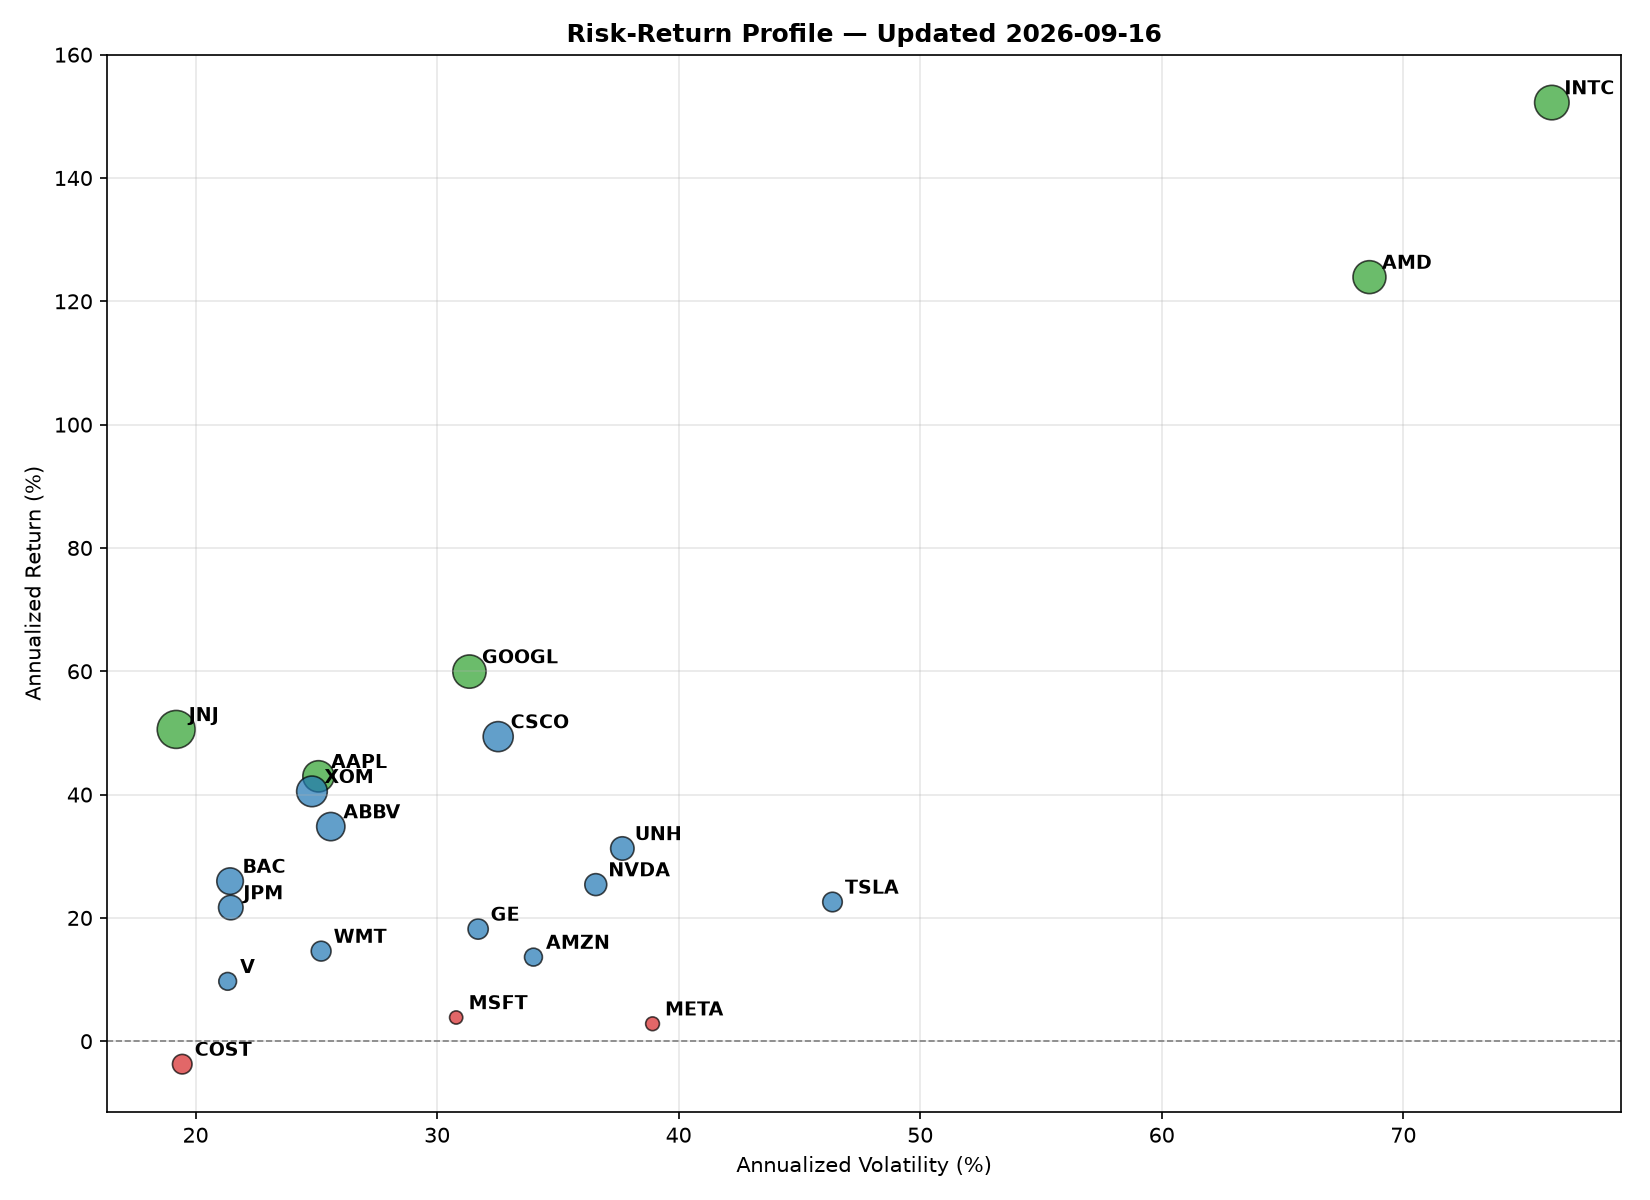
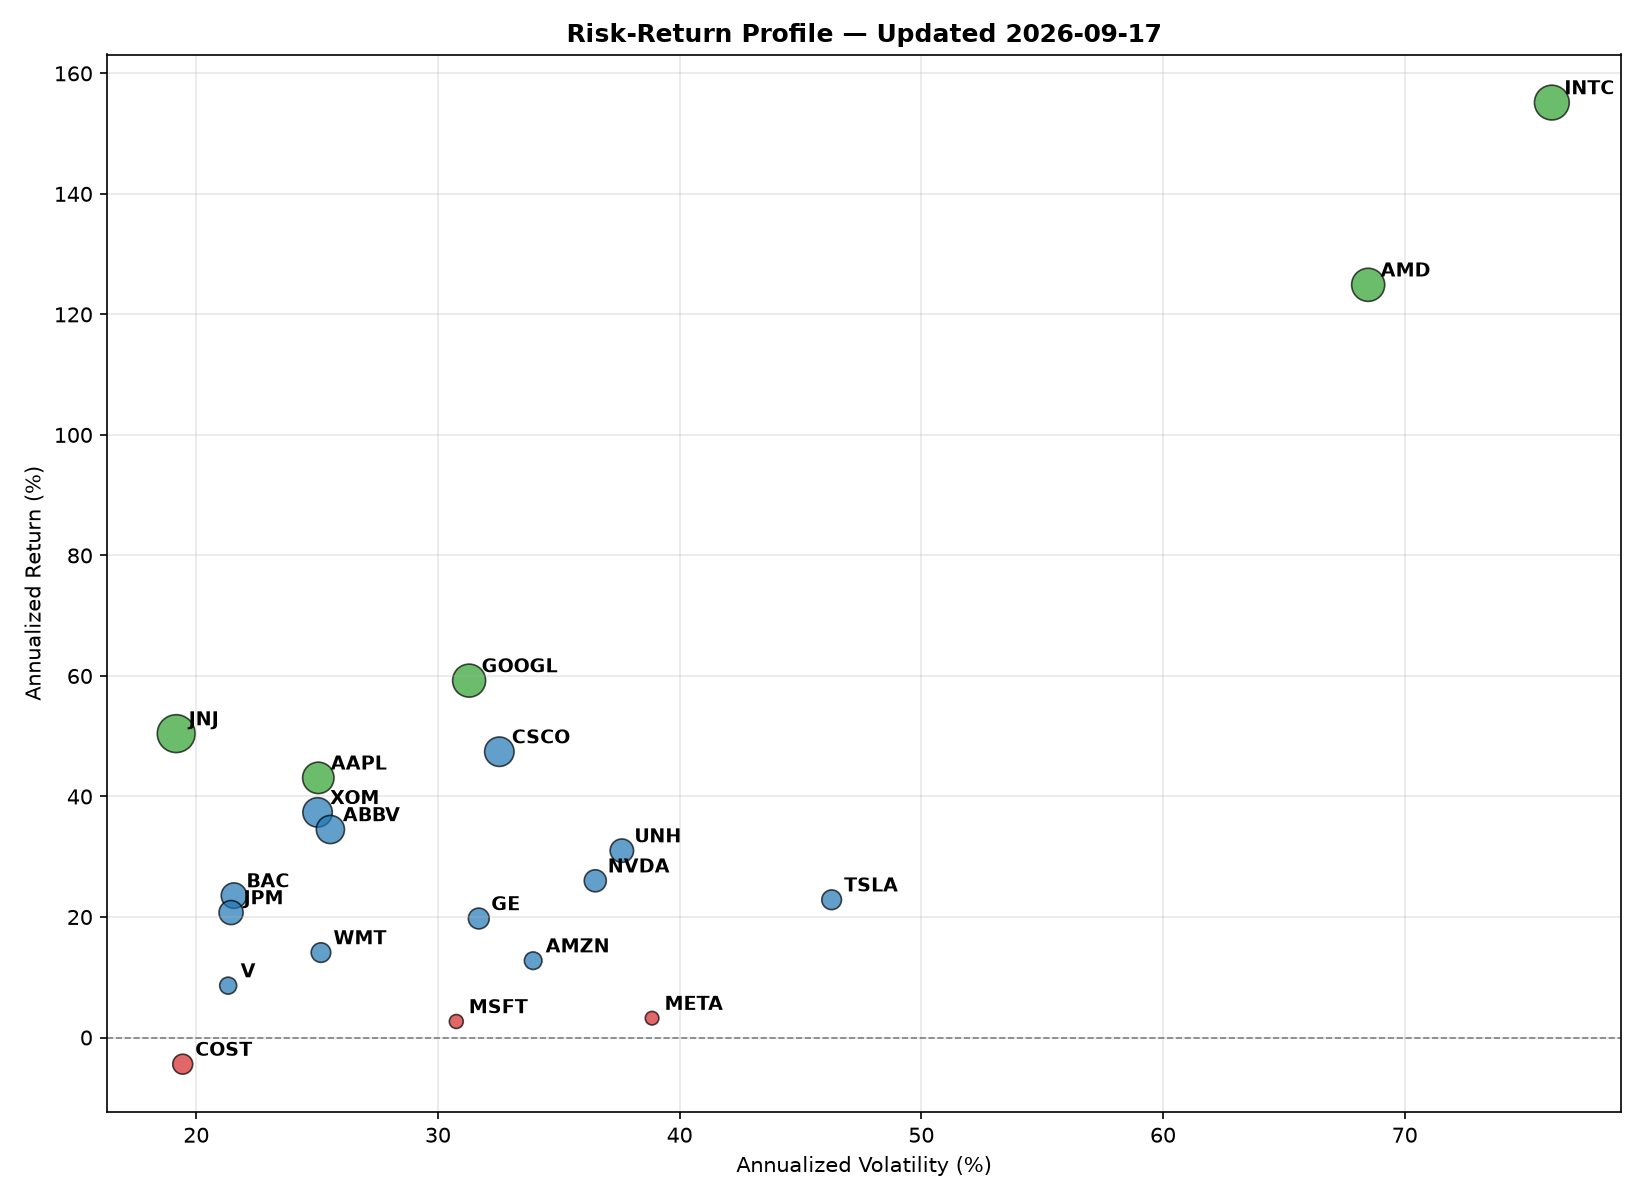
Automated daily update: prices, metrics, and charts

diff --git a/SNAPSHOT.md b/SNAPSHOT.md
@@ -1,9 +1,9 @@
-# Daily Risk Snapshot — 2026-09-15
+# Daily Risk Snapshot — 2026-09-16
 
-**Best mover:** XOM (+2.57%)
-**Worst mover:** GE (-3.31%)
-**Top risk-adjusted performer (trailing window):** JNJ (Sharpe 2.43)
+**Best mover:** INTC (+4.03%)
+**Worst mover:** XOM (-3.54%)
+**Top risk-adjusted performer (trailing window):** JNJ (Sharpe 2.42)
 
-**No new anomaly flags today.**
+**⚠ Newly anomalous today:** XOM — return moved more than 2 std. deviations from its own 20-day trailing mean.
 
 _Auto-generated by `scripts/daily_snapshot.py` via GitHub Actions._
